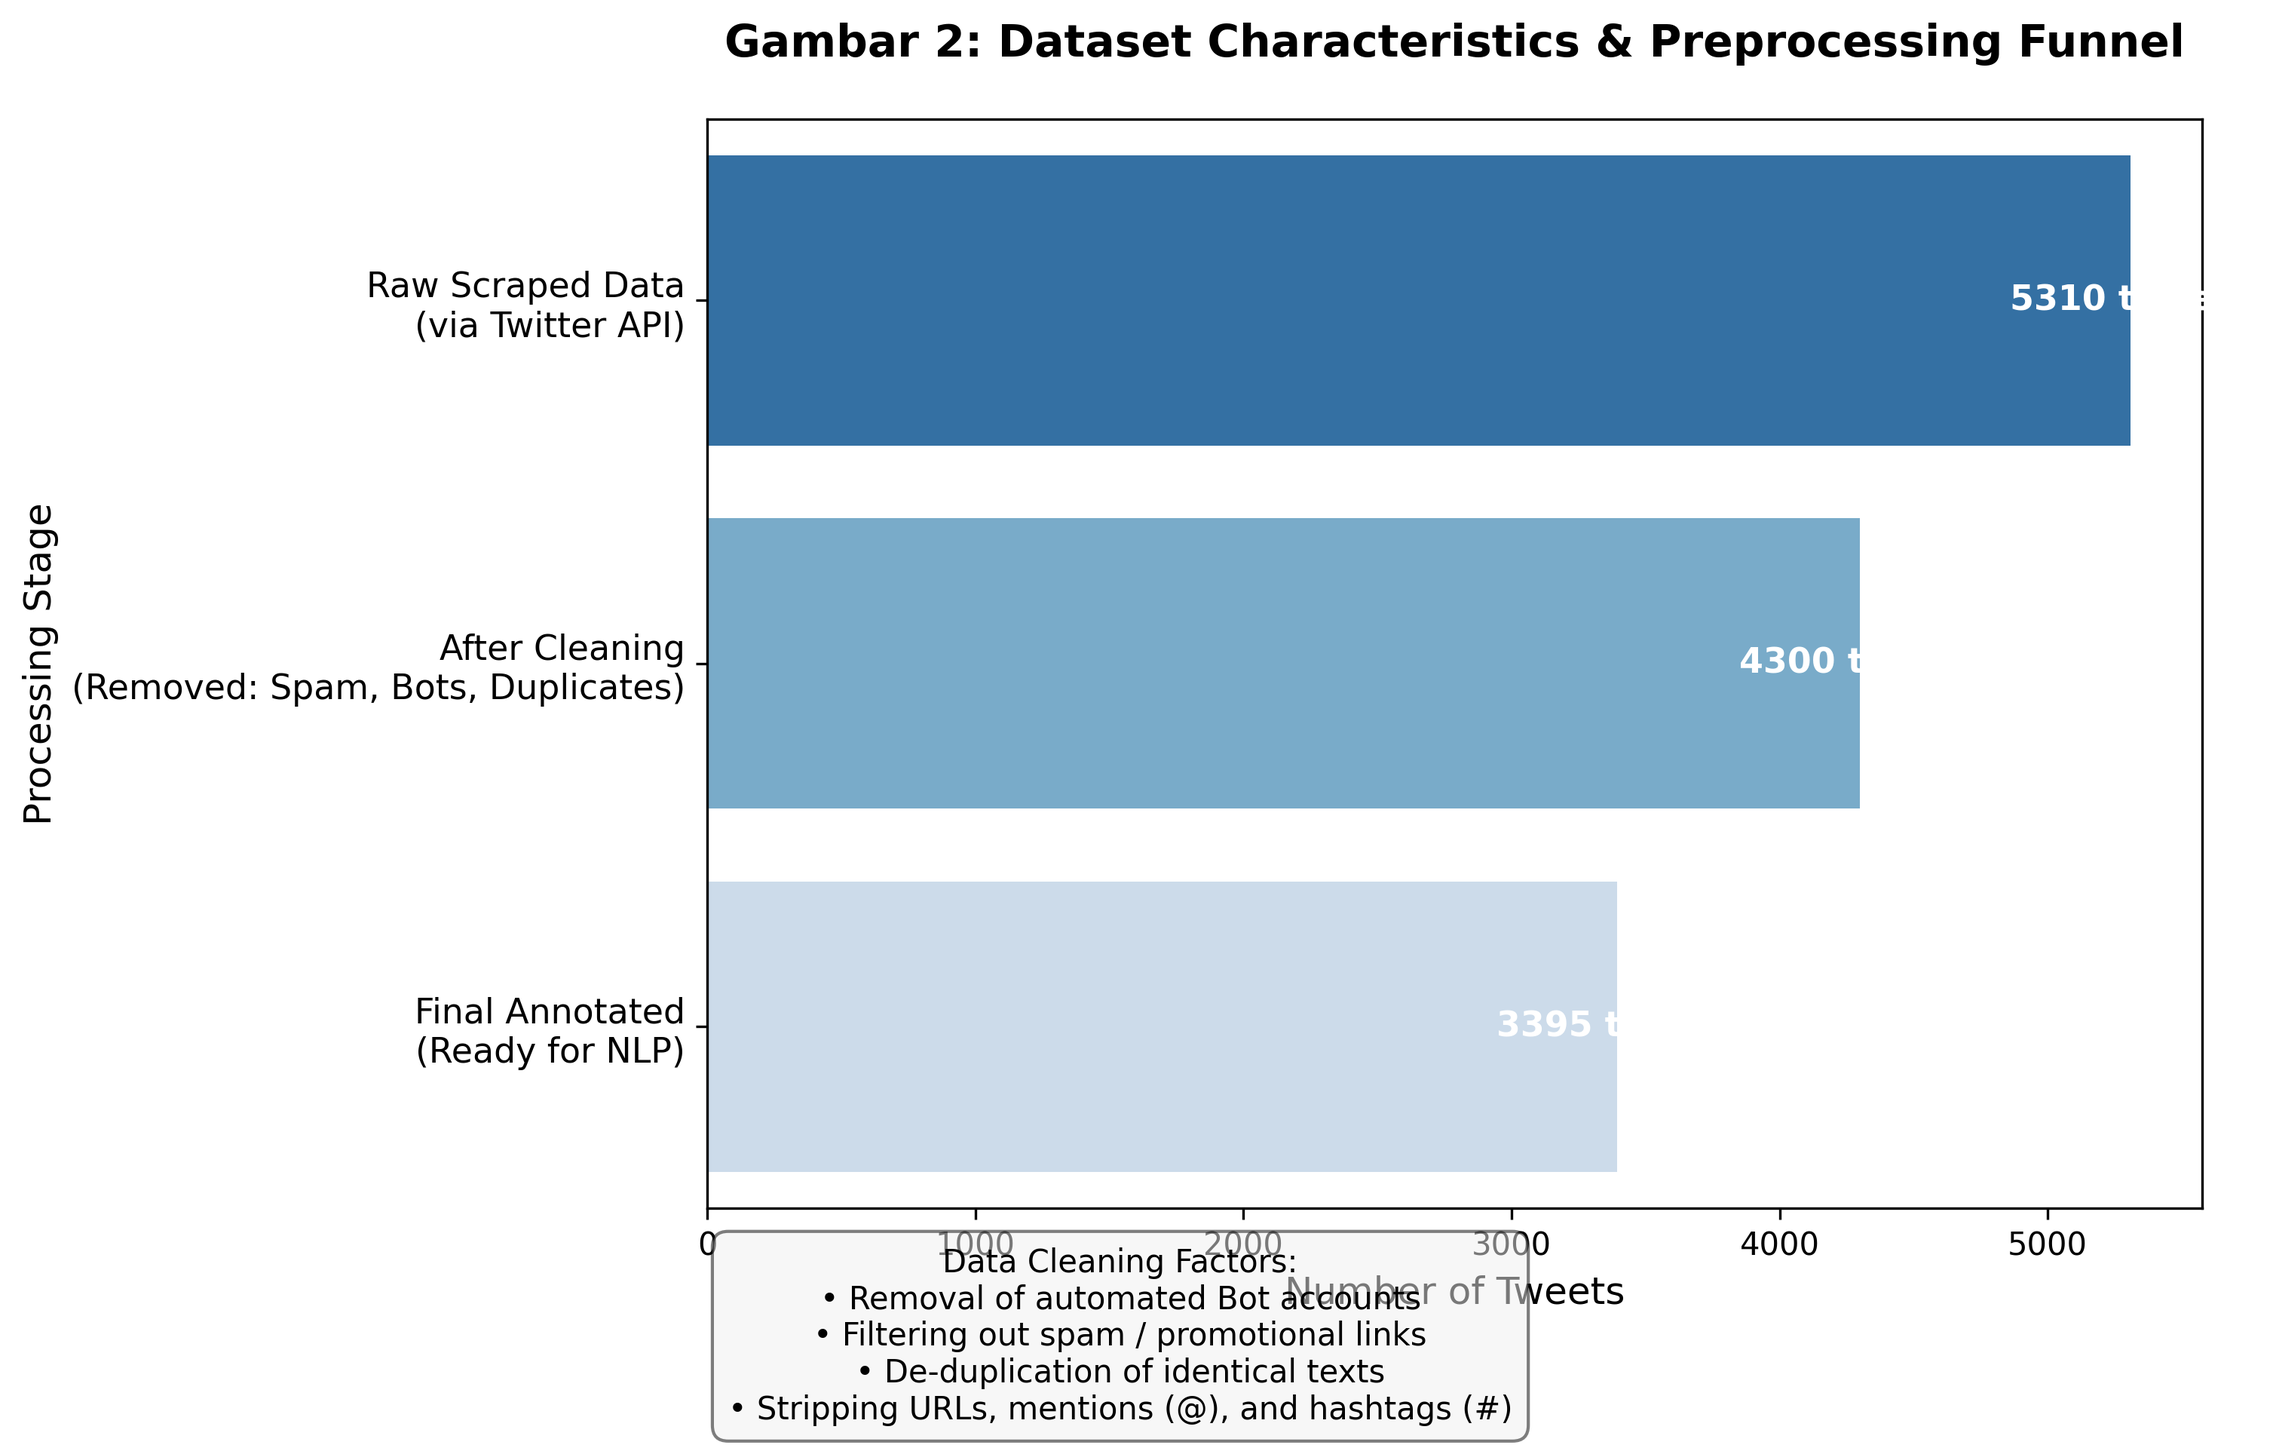
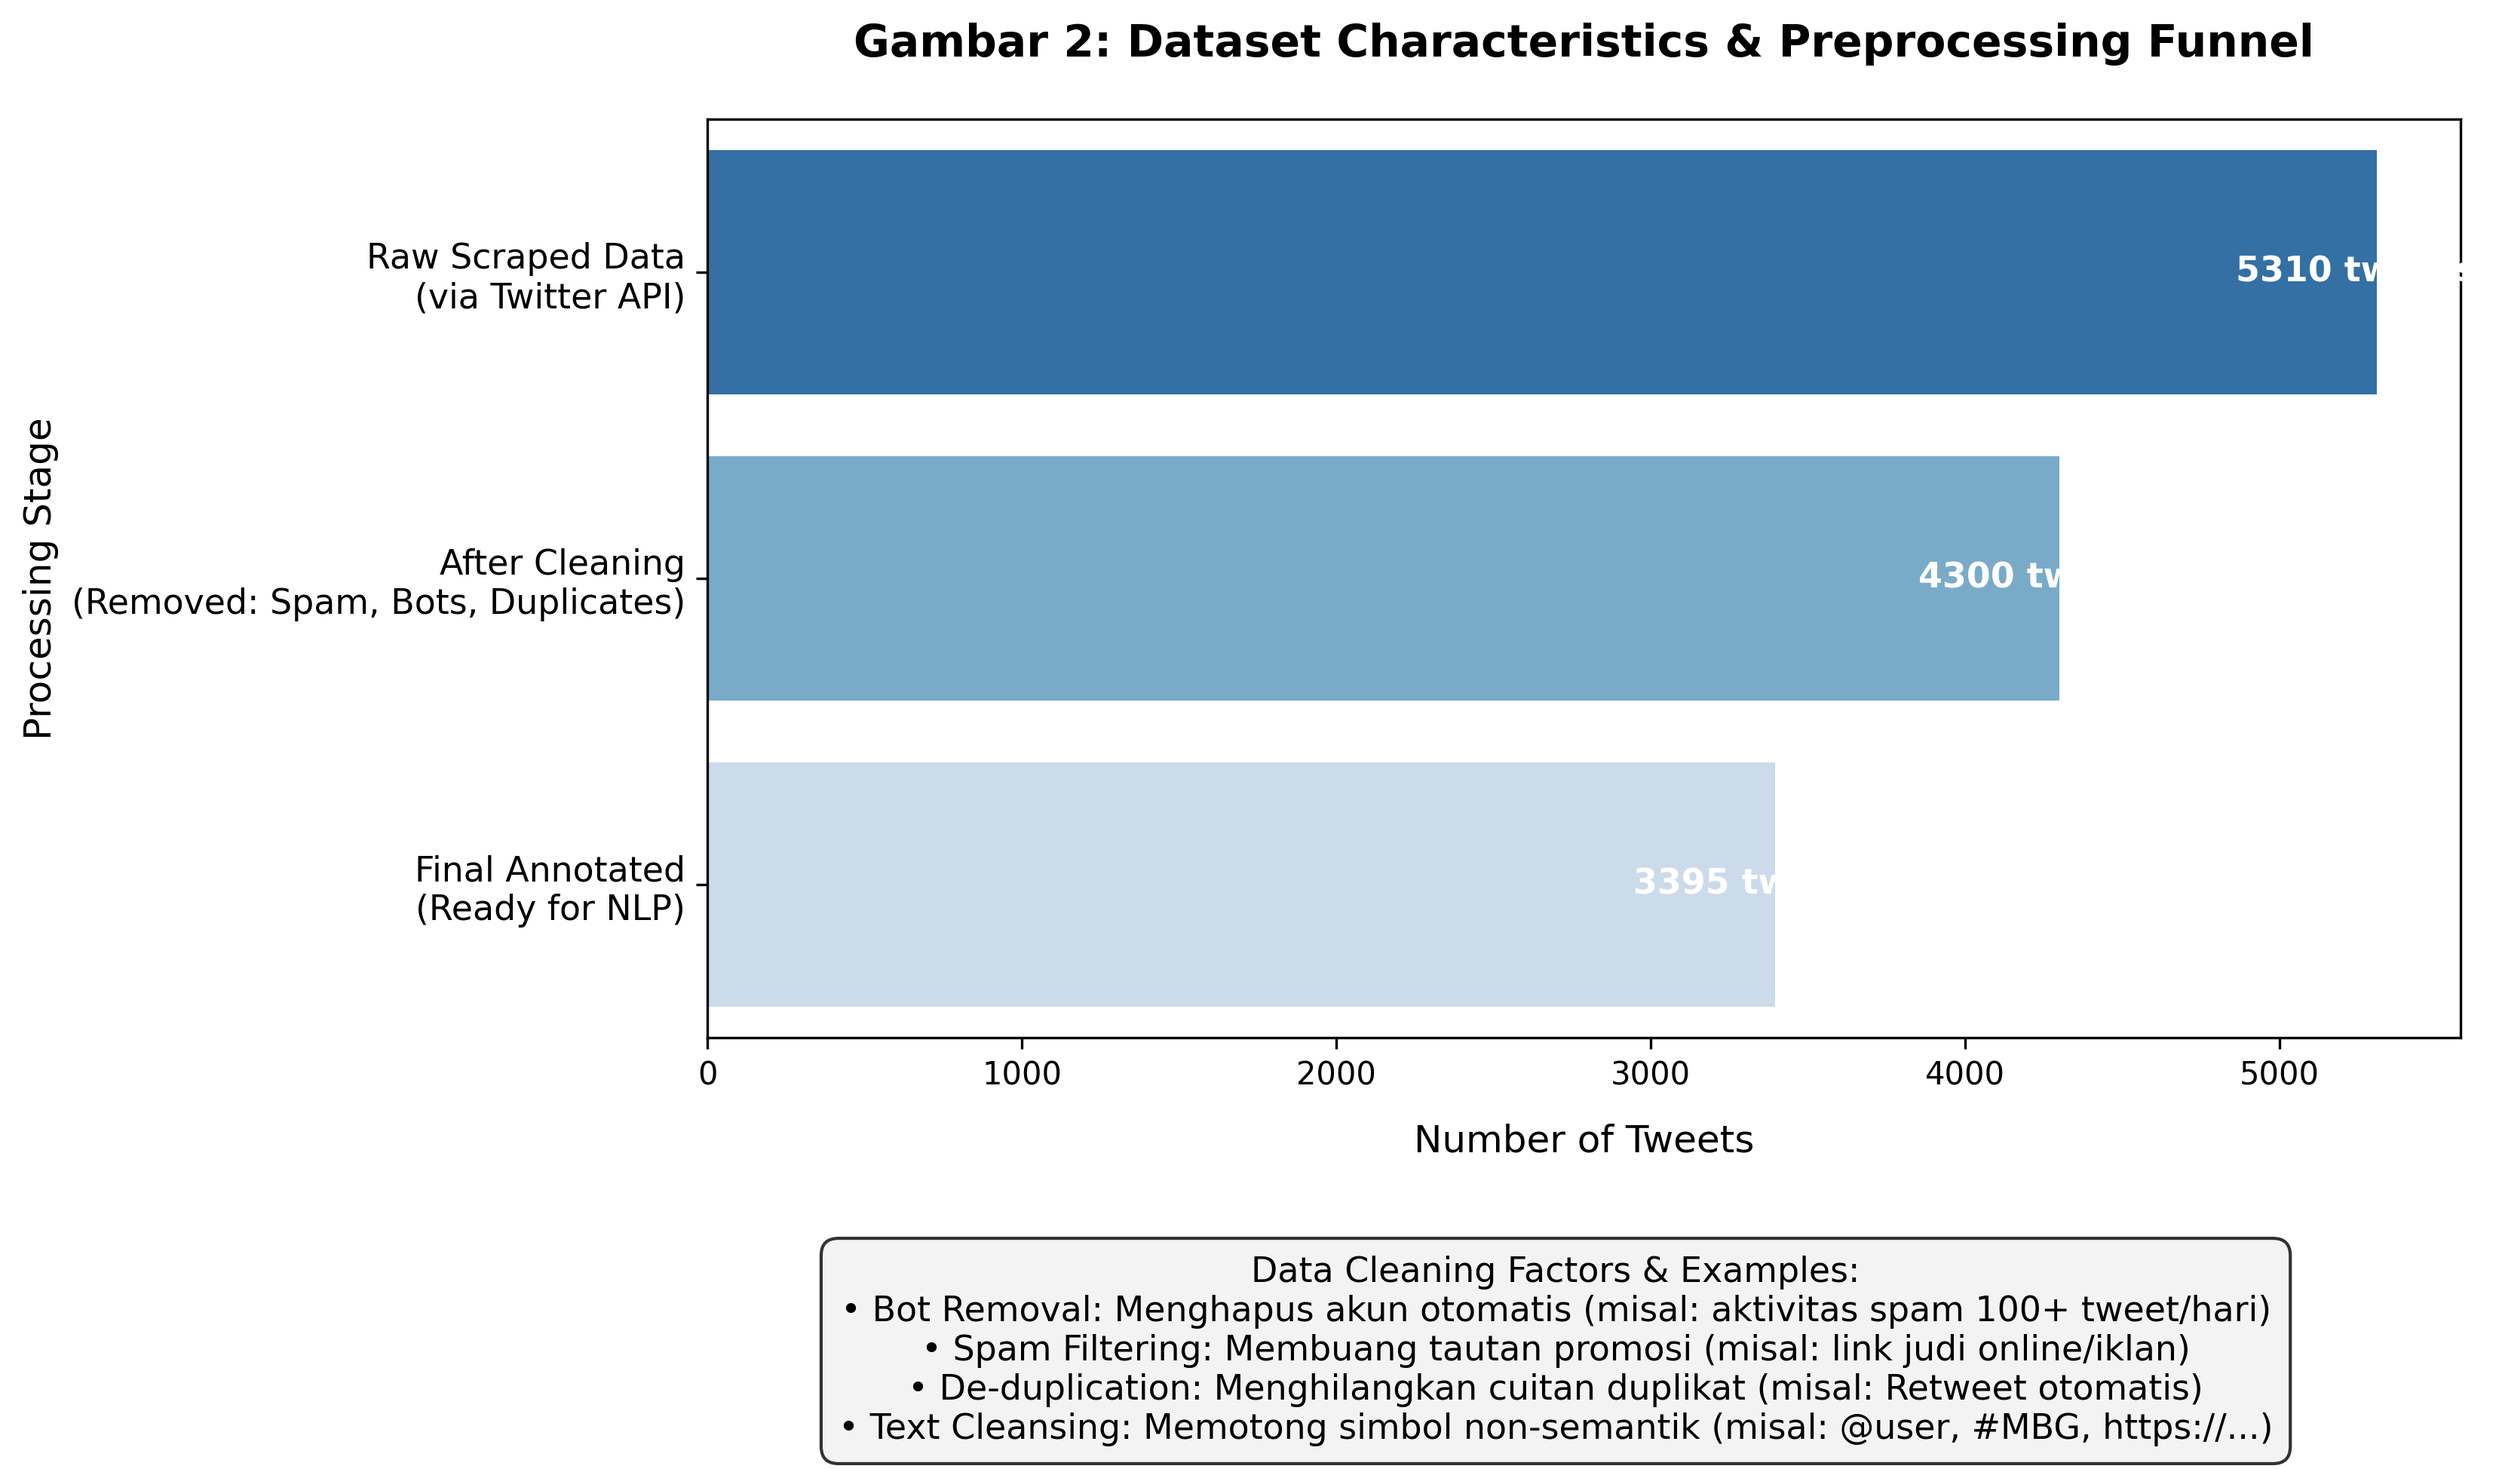
fix: Adjust layout in Gambar 2 to prevent text box overlap and add concrete data cleaning examples

diff --git a/scripts/plot_dataset.py b/scripts/plot_dataset.py
@@ -15,12 +15,12 @@ labels = [
 ]
 counts = [5310, 4300, 3395]
 
-plt.figure(figsize=(10, 6))
+plt.figure(figsize=(10, 7))
 # Plot using seaborn barplot
 sns.barplot(x=counts, y=labels, hue=labels, palette="Blues_r", legend=False)
 
 plt.title("Gambar 2: Dataset Characteristics & Preprocessing Funnel", fontsize=14, fontweight='bold', pad=20)
-plt.xlabel("Number of Tweets", fontsize=12)
+plt.xlabel("Number of Tweets", fontsize=12, labelpad=10)
 plt.ylabel("Processing Stage", fontsize=12)
 plt.yticks(fontsize=11)
 
@@ -28,18 +28,20 @@ plt.yticks(fontsize=11)
 for index, value in enumerate(counts):
     plt.text(value - 450, index, f"{value} tweets", color='white', fontweight='bold', fontsize=11, va='center')
 
-# Add an explanatory text box about cleaning factors
-cleaning_factors = (
-    "Data Cleaning Factors:\n"
-    "• Removal of automated Bot accounts\n"
-    "• Filtering out spam / promotional links\n"
-    "• De-duplication of identical texts\n"
-    "• Stripping URLs, mentions (@), and hashtags (#)"
-)
-plt.figtext(0.5, -0.05, cleaning_factors, wrap=True, horizontalalignment='center', fontsize=10, 
-            bbox={"facecolor":"#f0f0f0", "alpha":0.5, "pad":5, "boxstyle":"round,pad=0.5"})
+# Make room for the text box below the plot
+plt.subplots_adjust(bottom=0.3)
 
-plt.tight_layout()
+# Add an explanatory text box about cleaning factors WITH EXAMPLES
+cleaning_factors = (
+    "Data Cleaning Factors & Examples:\n"
+    "• Bot Removal: Menghapus akun otomatis (misal: aktivitas spam 100+ tweet/hari)\n"
+    "• Spam Filtering: Membuang tautan promosi (misal: link judi online/iklan)\n"
+    "• De-duplication: Menghilangkan cuitan duplikat (misal: Retweet otomatis)\n"
+    "• Text Cleansing: Memotong simbol non-semantik (misal: @user, #MBG, https://...)"
+)
+plt.figtext(0.5, 0.05, cleaning_factors, wrap=True, horizontalalignment='center', fontsize=11, 
+            bbox={"facecolor":"#f0f0f0", "alpha":0.8, "pad":8, "boxstyle":"round,pad=0.5"})
+
 plt.savefig("results/2_dataset_characteristics.png", dpi=300, bbox_inches="tight")
 plt.close()
-print("Gambar 2 berhasil diupdate!")
+print("Gambar 2 berhasil diupdate dan dirapikan!")
